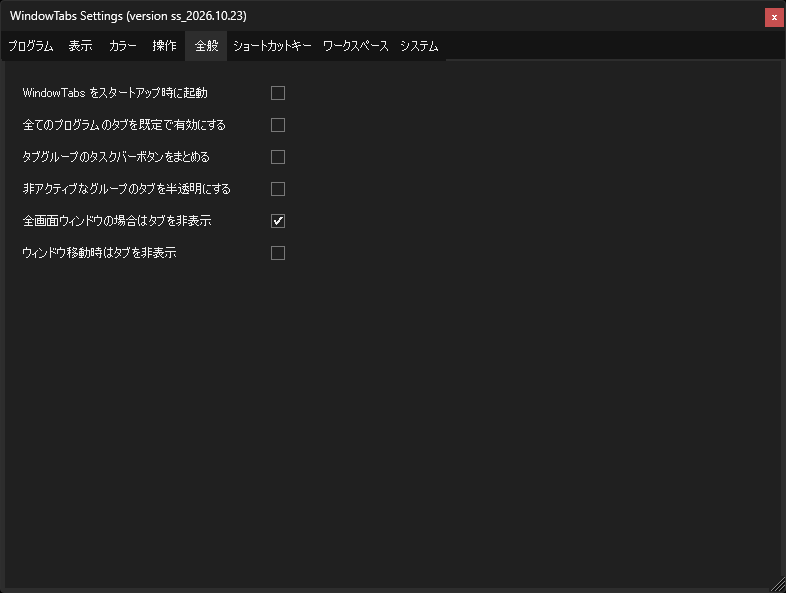
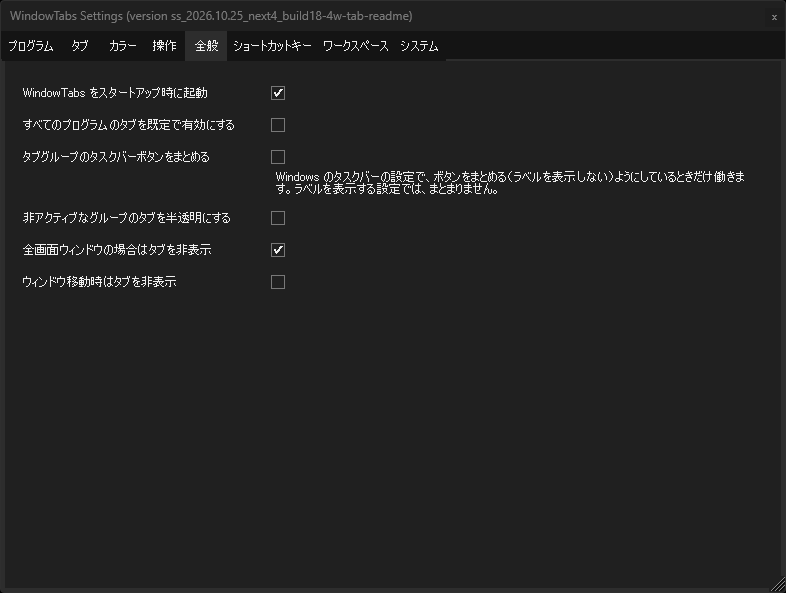
Describe tabs on every edge in the README and update its pictures

diff --git a/README_Japanese.md b/README_Japanese.md
@@ -193,21 +193,32 @@ leafOfTree 氏も様々な改良を加えたフォークを作成しています
   左側の{N}タブを閉じる
   右側の{N}タブを閉じる
   ---
-  他のタブを閉じる
-  すべてのタブを閉じる
+  上タブのこのタブ以外の{N}タブを閉じる
+  上タブのすべてのタブ({N}タブ)を閉じる（右クリックしたタブの辺の名前）
+  すべてのタブ({N}タブ)を閉じる
 ---
 タブグループの動作
   ウィンドウの移動と上端リサイズを禁止
-  スナップ時と移動時にタブの高さ分の余白をあける
+  スナップ時と移動時にタブの分の余白をあける
 タブの配置
-  すべてのタブを左寄せ
-  すべてのタブを右寄せ
-  ---
   このタブを左寄せにする
   このタブを右寄せにする
+  ---
+  上タブのすべてのタブを左寄せ
+  上タブのすべてのタブを右寄せ
+タブの方向
+  このタブの方向を変更（複数選択時は「選択した{N}タブの方向を変更」）
+    上タブ / 左タブ / 右タブ / 下タブ
+  上タブのすべてのタブの方向を変更（右クリックしたタブの辺の名前）
+    上タブ / 左タブ / 右タブ / 下タブ
+  すべてのタブの方向を変更
+    上タブ / 左タブ / 右タブ / 下タブ
 タブのピン止め
   このタブをピン止め
   このタブのピン止めを外す
+  ---
+  上タブのすべてのタブをピン止め（右クリックしたタブの辺の名前）
+  上タブのすべてのタブのピン止めを外す
   ---
   すべてのタブをピン止め
   すべてのタブのピン止めを外す
@@ -234,7 +245,11 @@ leafOfTree 氏も様々な改良を加えたフォークを作成しています
 設定...
 ```
 
-複数選択時には、個別タブ向け項目が「選択した{N}タブ...」に変わります。右クリックしたタブが選択に含まれていない場合は「選択した{N}タブ+対象タブ...」になり、「他のタブを閉じる」は「選択していない{N}タブを閉じる」になります。単独タブを基準にする項目は Disabled になります。
+「{辺}のこのタブ以外の{N}タブを閉じる」は右クリックした辺だけが対象で、対象が0ならDisabledです。全タブが同じ辺にあるときは辺の名前を省略します。
+
+「{辺}のすべてのタブ({N}タブ)を閉じる」は「すべてのタブ({N}タブ)を閉じる」の直前にあり、同じ閉じる処理で右クリックした辺のタブだけを閉じます。全タブがその辺にあるときは非表示です。辺単位のピン止めも同じ条件で非表示になります。一括の寄せと辺単位の方向変更は表示したままで、グループ全体の方向変更は無効になります。
+
+複数選択時には、個別タブ向け項目が「選択した{N}タブ...」に変わります。右クリックしたタブが選択に含まれていない場合は「選択した{N}タブ+対象タブ...」になり、「このタブ以外」を閉じる項目は「選択していない{N}タブを閉じる」になります。単独タブを基準にする項目は Disabled になります。
 
 ### 新しいタブ (新規起動)
 
@@ -269,14 +284,22 @@ leafOfTree 氏も様々な改良を加えたフォークを作成しています
 
 ### タブの配置
 
-- タブごと、または全タブ一括で左寄せ・右寄せを設定できます。
+- タブごと、選択したタブ、または右クリックした辺の全タブ一括で左寄せ・右寄せを設定できます。一括操作の文言には右クリックした辺の名前（上タブ・左タブなど）を表示します。左右の辺では上寄せ・下寄せになります。
 - タブをドラッグしても左寄せ右寄せを変更できます。
-- 設定[スナップ時と移動時のタブの寄せ]により、左右や四隅にスナップ・移動したとき、全タブの寄せがそろっていれば、その方向の左側・右側へ自動で寄せることもできます。
+- 設定[スナップ時と移動時のタブの寄せ]により、スナップ・移動したとき、同じ辺のタブの寄せがそろっていれば、上・下タブは左右の成分、左・右タブは上下の成分に合わせて自動で寄せることもできます。四隅にも対応します。
+
+### タブの方向
+
+- このタブ／選択したタブ、右クリックした辺の全タブ、グループ全体のタブを、使用する設定の辺へ移動できます。全タブが同じ辺にあるときは、グループ全体の項目が無効になります。
+- 使用する辺が1つだけのときは、メニューを表示しません。移動先は四辺とも表示し、使用しない辺と対象の全タブがすでにある辺は灰色になります。
+- 辺を移るときは寄せとピン止めを保ち、左寄せと上寄せ、右寄せと下寄せが相互に対応します。各寄せ・ピン止め区分の中では移動元の相対順を保ち、移動先の既存タブの後ろへ追加します。
 
 ### ピン止めタブ
 
 - ピン止めタブは、アイコンのみ、または幅を指定してピン止めボタン付きで表示できます。
-- ピン止めしたタブは、左寄せや右寄せタブの中でも左側に配置されます。
+- このタブ／選択したタブ、名前を表示した辺のすべてのタブ、グループ全体のすべてのタブをそれぞれピン止め・解除できます。全タブが同じ辺にあるときは重複する辺単位の項目を隠し、状態が変わらない項目は無効になります。
+- 複数選択は既存のアクティブタブ・選択タブ・右クリックしたタブを対象にします。文言も既存の選択数表示を保ち、対象タブを追加した場合は別に示します。
+- どの辺でも寄せの区分ごとにピン止めが先頭側、通常タブがその後に並び、既存の並び順の規則を維持します。
 
 ![Pinned Tabs Icon](README_Image/PinnedTabIcon.png)
 ![Pinned Tabs Width](README_Image/PinnedTabWidth.png)
@@ -376,14 +399,21 @@ leafOfTree 氏も様々な改良を加えたフォークを作成しています
 
 ![Settings Programs](README_Image/SettingsPrograms.png)
 
-### 表示タブ
+### 「タブ」タブ
 
-- **タブの形**: S字・角丸縦線・強い角丸縦線・角ばった縦線・台形・右切り欠き台形・左切り欠き台形・長方形・角丸長方形・強い角丸長方形・角ばった長方形の11種類から選べます。選ぶとすぐにタブに反映され、再起動は不要です。既定はS字です。
-- **タブのサイズ**: 高さと幅(最大)を 1 行で調整できます。それぞれの右のボタンで既定値に戻せます。
+- **上タブ・左タブ・右タブ・下タブ**: ウィンドウの四辺それぞれのタブを、別々のページで設定します。
+- **上タブを使用する**・**左タブを使用する**・**右タブを使用する**・**下タブを使用する**: 各ページの 1 行目で、その辺のタブを使うかを選びます。少なくとも 1 つは使用する必要があります。
+- **下タブを同じ設定にする**: 上タブのページの設定を下タブへ写します。各ページに反対側（上と下、左と右）へ写すボタンがあります。
+- 左タブ・右タブ・下タブにも、上タブと同じく、タブのスタイル・タブのサイズ (高さと最大幅)・ピン止めタブの幅・タブの重なり・寄せ・タブの外側内側・端からの距離・内側タブを隠す機能があります。左タブと右タブは、文字を回転して表示します。既定では右タブの文字は上から下へ読み、文字の下側がウィンドウ側になります。左右タブはそれぞれ「文字の下が内側／外側」を選べます。どちらも既定は内側です。
+
+上タブのページには、次の項目があります。
+
+- **タブのスタイル**: S字・角丸縦線・強い角丸縦線・角ばった縦線・台形・右切り欠き台形・左切り欠き台形・長方形・角丸長方形・強い角丸長方形・角ばった長方形の11種類から選べます。選ぶとすぐにタブに反映され、再起動は不要です。既定は角丸縦線です。
+- **タブのサイズ**: 高さと最大幅を 1 行で調整できます。それぞれの右のボタンで既定値に戻せます。
 - **ピン止めタブの幅**・**タブの重なり**・**外側タブの端からの距離**・**内側タブの端からの距離** (左右): 数値で調整できます。各項目の右のボタンで既定値に戻せます。
-- **タブの配置**: タブの既定の左右寄せを選びます。
+- **寄せ**: タブの既定の左右寄せを選びます。
 - **タブの外側内側**: 「外側、ディスプレイ外にはみ出る場合は内側」(既定) または「常に内側」を選択。
-- **内側タブを隠す機能**: 内側タブを隠す方法と待ち時間を設定できます。
+- **内側タブを隠す機能**: 各辺のページで、内側タブを隠す方法と待ち時間を個別に設定できます。左・右・下タブで自分の値を保存していない項目は、上タブの現在の値に従います。
 
 ![Settings Appearance](README_Image/SettingsAppearance_Japanese.png)
 ![Settings Appearance Tab Shape](README_Image/SettingsAppearanceTabShape_Japanese.png)
@@ -405,8 +435,8 @@ leafOfTree 氏も様々な改良を加えたフォークを作成しています
 - **ピン止めタブのピンボタン**: 「アクティブなタブのみボタン配置、他はアイコン表示のみ」(既定)・「すべてのタブにボタン」・「アイコン表示のみ」から選べます。アイコンはピン止め状態を示す表示で、押せません。
 - マウスを重ねたタブをアクティブにするかを設定できます。
 - **ウィンドウの移動と上端リサイズを禁止**: タイトルバーのドラッグでの移動と、上端からのサイズ変更を止めます。左右と下端のサイズ変更は可能です。これを変更するとすべてのタブグループに反映されます。
-- **スナップ時と移動時のタブの寄せ**: 寄せが揃ったグループを左右や四隅にスナップ (x% 含む)・移動すると、タブをその方向の左側・右側に寄せます。「変更しない」も選択可能。
-- スナップ時と移動時にタブの高さ分の余白を残すかを選べます。移動では、位置を作業領域内に収める場合も含め、グループの上側に余白を確保します。同じ画面内の移動では大きさを変えず、別の画面へは作業領域に対する大きさの比率を保ちます。タブを引き離した位置でスナップするかも選べます。
+- **スナップ時と移動時のタブの寄せ**: 同じ辺のタブの寄せがそろっているとき、スナップ (x% 含む)・移動の方向に合わせ、上・下タブは左右、左・右タブは上下に寄せます。四隅にも対応します。「変更しない」も選択可能。
+- スナップ時と移動時にタブの分の余白を残すかを選べます。移動では、位置を作業領域内に収める場合も含め、実際にタブがある外側の辺に余白を確保します。常に内側に置く辺には余白を設けず、上タブだけのグループは従来の上側余白を維持します。同じ画面内の移動では大きさを変えず、別の画面へは作業領域に対する大きさの比率を保ちます。タブを引き離した位置でスナップするかも選べます。
 
 ![Settings Interaction](README_Image/SettingsInteraction_Japanese.png)
 

diff --git a/README.md b/README.md
@@ -193,21 +193,32 @@ Close Tab
   Close {N} tabs to the left
   Close {N} tabs to the right
   ---
-  Close other tabs
-  Close all tabs
+  Close all top tabs except this one ({N})
+  Close all top tabs ({N}) (uses the clicked tab’s edge)
+  Close all tabs ({N})
 ---
 Tab Group Behavior
   Prevent moving windows and resizing them from the top
-  Add tab height margin when snapping or moving
+  Leave room for tabs when snapping or moving
 Tab Alignment
-  Align all tabs to Left
-  Align all tabs to Right
-  ---
   Align this tab to Left
   Align this tab to Right
+  ---
+  Align all top tabs to the left
+  Align all top tabs to the right
+Tab Direction
+  Change the direction of this tab (or Change the direction of {N} selected tabs)
+    Top tabs / Left tabs / Right tabs / Bottom tabs
+  Change the direction of all top tabs (uses the clicked tab’s edge)
+    Top tabs / Left tabs / Right tabs / Bottom tabs
+  Change the direction of all tabs
+    Top tabs / Left tabs / Right tabs / Bottom tabs
 Tab Pin
   Pin this tab
   Unpin this tab
+  ---
+  Pin all top tabs (uses the clicked tab’s edge)
+  Unpin all top tabs
   ---
   Pin all tabs
   Unpin all tabs
@@ -234,7 +245,9 @@ System
 Settings...
 ```
 
-In multi-select, per-tab items show "Selected {N} tabs..." and operate on the active tab plus the selected tabs. When the tab you right-clicked is not in the selection they read "Selected {N} tabs + target tab...", and "Close other tabs" becomes "Close {N} unselected tabs". Items that require a single target tab are disabled.
+The close-other command affects only the clicked edge and shows the number of tabs to close; it is disabled at zero. When all tabs share one edge, its caption omits the edge name. The edge and group close-all commands also show their target counts. The edge-specific close command appears before "Close all tabs" and closes only tabs on the clicked edge, using the same close handling. It is hidden when all tabs are on that edge. Edge-specific pin commands follow the same rule. Bulk alignment and edge-specific direction commands remain visible; the group-wide direction command is disabled when all tabs share one edge.
+
+In multi-select, per-tab items show "Selected {N} tabs..." and operate on the active tab plus the selected tabs. When the tab you right-clicked is not in the selection they read "Selected {N} tabs + target tab...", and the close-other command becomes "Close {N} unselected tabs". Items that require a single target tab are disabled.
 
 ### New Tab (New Launch)
 
@@ -269,14 +282,22 @@ In multi-select, per-tab items show "Selected {N} tabs..." and operate on the ac
 
 ### Tab Alignment
 
-- Align tabs left / right individually or all at once.
+- Align tabs left / right individually, as a selection, or all at once on the clicked edge. The bulk commands name the clicked edge, such as top tabs or left tabs. On left and right edges, alignment is top / bottom.
 - Dragging a tab changes its alignment too.
-- With the "Tab alignment on snap and move" setting, a uniformly aligned group realigns left or right when snapped or moved to that side, including corners.
+- With the "Tab alignment on snap and move" setting, tabs aligned alike on each edge realign along that edge when snapped or moved: top/bottom tabs follow left/right, and left/right tabs follow top/bottom, including corners.
+
+### Tab Direction
+
+- Move this tab / selected tabs, all tabs on the clicked edge, or all tabs in the group to another enabled edge. When all tabs share one edge, the group-wide command is disabled.
+- The menu is hidden when only one edge is enabled. All four destinations remain listed; disabled edges and destinations already containing every target tab are grayed out.
+- Moving between edges preserves alignment and pin state: left alignment maps to top, and right alignment maps to bottom, and vice versa. Within each alignment/pin zone, moved tabs keep their relative order and follow existing destination tabs.
 
 ### Pinned Tabs
 
 - Display pinned tabs as icons only, or at a specified width with a pin button.
-- Pinned tabs are placed leftmost within their (left- or right-aligned) group.
+- Pin or unpin this tab / selected tabs, all tabs on the named edge, or all tabs in the group. When every tab is on the same edge, the duplicate edge commands are hidden. Commands that would change nothing are disabled.
+- Multi-select keeps the existing active, selected, and right-clicked targets. Its label shows the selected count, with the target tab listed separately when added.
+- On every edge, pinned tabs come first within each alignment zone, followed by unpinned tabs; existing ordering rules are preserved.
 
 ![Pinned Tabs Icon](README_Image/PinnedTabIcon.png)
 ![Pinned Tabs Width](README_Image/PinnedTabWidth.png)
@@ -378,14 +399,21 @@ Right-click the tray icon, or right-click a tab, and choose "Settings...". Tray 
 
 ![Settings Programs](README_Image/SettingsPrograms.png)
 
-### Appearance Tab
+### Tabs Tab
 
-- **Tab Shape**: Choose from eleven shapes - S-curve, rounded vertical line, strong rounded vertical line, angular vertical line, trapezoid, right-cut trapezoid, left-cut trapezoid, rectangle, rounded rectangle, strong rounded rectangle and angular rectangle. The tabs change at once, without restarting. The default is the S-curve.
+- **Top tabs, Left tabs, Right tabs, Bottom tabs**: Each edge of the window has its own page.
+- **Use top tabs**, **Use left tabs**, **Use right tabs**, **Use bottom tabs**: The first row of each page turns that edge on or off. At least one edge must stay on.
+- **Apply the same settings to the bottom tabs**: Copies the top page settings to the bottom edge. Each page has a corresponding button for its opposite edge (top/bottom or left/right).
+- The left, right and bottom pages have the same settings as the top page: tab style, tab size (height and max width), pinned tab width, tab overlap, alignment, outer or inner tabs, the distances from the edge, and hiding inner tabs. Tabs on the left and right edges show rotated text. By default, right-tab text reads from top to bottom, with the bottom of the letters facing the window. Left and right tabs also offer inward- or outward-facing text bottoms, independently; both default to inward.
+
+The top tabs page has these rows:
+
+- **Tab style**: Choose from eleven shapes - S-curve, rounded vertical line, strong rounded vertical line, angular vertical line, trapezoid, right-cut trapezoid, left-cut trapezoid, rectangle, rounded rectangle, strong rounded rectangle and angular rectangle. The tabs change at once, without restarting. The default is the rounded vertical line.
 - **Tab size**: Set height and maximum width side by side, each with its own reset button.
 - **Pinned Tab Width**, **Tab Overlap**, **Distance from edge for outer tabs** and **Distance from edge for inner tabs** (left and right): Set as numbers. The button to the right of each puts back its default.
-- **Tab placement**: Choose the default left or right alignment.
+- **Tab alignment**: Choose the default left or right alignment.
 - **Outer or inner tabs**: choose "Outer, or inner when it would go off the display" (default) or "Always inner".
-- **Hide inner tabs**: Configure how to hide inner tabs and the hiding delay.
+- **Hide inner tabs**: Each edge page independently configures how to hide inner tabs and the hiding delay. Left, right and bottom tabs follow the current top-tab value for each of these settings until they have their own saved value.
 
 ![Settings Appearance](README_Image/SettingsAppearance.png)
 ![Settings Appearance Tab Shape](README_Image/SettingsAppearanceTabShape.png)
@@ -407,8 +435,8 @@ If you create a nice color theme, please share it at [GitHub Issues](https://git
 - **Pin button on pinned tabs**: "Button on the active tab only, icon on the others" (default), "Button on all tabs", or "Icon only". An icon indicates a pinned tab and cannot be clicked.
 - Configure activation on mouse-over.
 - **Prevent moving windows and resizing them from the top**: stops a title-bar drag from moving the window, and the top edge from resizing it. The left, right and bottom edges resize as before. Changing this applies to every tab group.
-- **Tab alignment on snap and move**: snapping or moving a uniformly aligned group left or right, including corners and x% snaps, realigns its tabs to that side. "Don't change" is also available.
-- Choose whether snapping or moving leaves a tab-height margin. Moves keep this margin above the group, including when its position is constrained by the work area. Moves within the same display preserve the group size; moves to another display preserve its size relative to the work area. You can also choose whether detached tabs snap at the drop position.
+- **Tab alignment on snap and move**: snapping or moving realigns each uniformly aligned edge: top/bottom tabs follow the horizontal component, and left/right tabs follow the vertical component, including corners and x% snaps. "Don't change" is also available.
+- Choose whether snapping or moving leaves room for tabs. Moves reserve room on the occupied outside edges, including when the position is constrained by the work area. Inside-only edges reserve no room; a group with only top tabs keeps its usual top margin. Moves within the same display preserve the group size; moves to another display preserve its size relative to the work area. You can also choose whether detached tabs snap at the drop position.
 
 ![Settings Interaction](README_Image/SettingsInteraction.png)
 
